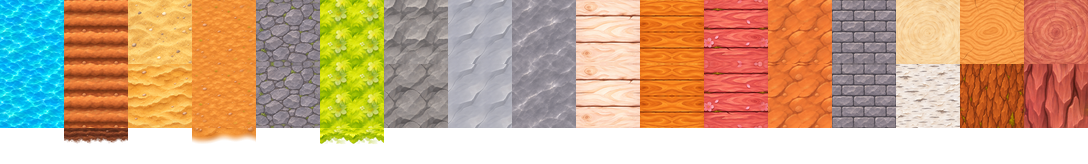
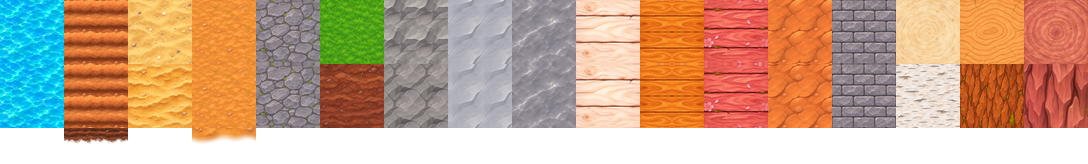
v0.93.79: Grama com topo e face enviados pelo dono do produto
Substitui a grama da v0.93.77 pelo topo e pela face enviados, sem franja; ícone refeito e teste ajustado.

Claude-Session: https://claude.ai/code/session_01KGdgomm438trDHTLPLqJmv

Changed region(s): [[0.2812, 0.0, 0.375, 0.8841]]

diff --git a/src/render/materialsV2.test.ts b/src/render/materialsV2.test.ts
@@ -24,12 +24,13 @@ describe('Padrão de Materiais V2 (ADR 0023)', () => {
     }
   });
 
-  it('Terra Arada, Caminho de Terra e Grama têm frente de terra e a franja do próprio topo', () => {
-    for (const id of [Block.TILLED, Block.PATH, Block.GRASS]) {
+  it('Terra Arada e Caminho de Terra têm frente de terra e a franja do próprio topo; a Grama tem topo e face próprios, sem franja', () => {
+    for (const id of [Block.TILLED, Block.PATH]) {
       const b = V2_BLOCKS[id]!;
       expect(b.front).toBe('terra');
       expect(b.overlay).toBe(b.top);
     }
+    expect(V2_BLOCKS[Block.GRASS]).toEqual({ top: 'grama', front: 'grama' });
   });
 
   it('o V2 é o padrão; só ?blocos=legado volta ao atlas antigo', () => {

diff --git a/src/render/materialsV2.ts b/src/render/materialsV2.ts
@@ -30,7 +30,7 @@ interface V2Block { top: string; front: string; overlay?: string }
 export const V2_BLOCKS: Partial<Record<BlockId, V2Block>> = {
   [Block.SAND]: { top: 'areia', front: 'areia' },
   [Block.DIRT]: { top: 'terra', front: 'terra' },
-  [Block.GRASS]: { top: 'grama', front: 'terra', overlay: 'grama' },
+  [Block.GRASS]: { top: 'grama', front: 'grama' }, // topo e face próprios (v0.93.79), sem franja
   // As cinco pedras do jogo (as outras três foram aposentadas, `RETIRED_STONES`); sem frente própria, a frente é o topo.
   [Block.STONE]: { top: 'pedra', front: 'pedra' },
   [Block.STONE_BRICK]: { top: 'tijolo-de-pedra', front: 'tijolo-de-pedra' },

diff --git a/docs/NEXT_STEPS.md b/docs/NEXT_STEPS.md
@@ -22,7 +22,7 @@ Fases 1 (desbloqueio) e 2 (hotbar em linhas, controles por `--hotbar-h`, convers
 - **F6 feita (v0.93.58):** salvamento v16 (`sub`), protocolo 21, `RoomSnapshot` v5 e servidor sincronizado; migração em `world/subdiv.ts`. **F7 feita no jogo (v0.93.59): `DEFAULT_SUBDIV = 2`; paredes/porta empilhadas na grade fina.** **Falta para ir ao ar:** PR do servidor (`build:net` + `sync-net`) e implantação conjunta jogo+servidor **só com aval do dono do produto**; conferir o peso do arquivo salvo (~4×), a margem de chunks dos prédios grandes (castelo), save/online reais na grade 2, o 2D de reserva (M7), porta de parede animada e casas/cidade com paredes.
 - **Capivara e lobos (v0.93.61):** dar à capivara um alimento e a arte de filhote (reprodução como vaca/galinha) e usar as folhas de comer/dormir; lobos sem pose de morte própria no espelho da sala (usam a folha de morte de `monsterDeaths`).
 - **Bandos (v0.93.60):** conferir o ritmo do jogo com ~340 acampamentos e ~130 bandos de lagarto (ajustar `PACK_REGION`/`PACK_SPAWN_RADIUS` em `world/goblins.ts`/`game/entities.ts`); nome/diálogo e espólio extra do lagarto (hoje só 2 moedas); bando de lagarto que a sala simula não persiste (volta completo ao reaproximar-se); homem-lagarto só no Mundo principal.
-- **Franja da Grama em pilhas parciais (v0.93.78):** o topo de uma pilha de 1–3 blocos devia mostrar a franja (hoje só o 4º nível mostra); fatiar a frente a partir do topo da coluna, não do nível absoluto.
+- **Grama (v0.93.79):** sem franja entre o topo verde e a face de terra; se quiser a franja de volta, pedir uma faixa de relva com alfa (≤ 32 px) e, nas pilhas parciais, fatiar a frente a partir do topo da coluna (hoje só o 4º nível mostraria a franja).
 - **Arte dos blocos (v0.93.77):** pedir ao artista versões repetíveis (sem emenda) das 5 planificações e uma franja própria da Terra Arada; refazer ícones de Tijolo, Chão e Pedra Polida no mesmo estilo; conferir o 3D da Grama (a franja ocupa ~44% da frente esticada).
 - **Blocos de 1/4 (ADR 0033, v0.93.76):** arte própria da face de 4 px por material, borda/sombra entre blocos parciais, 2D de reserva fiel (pilhas parciais) ou aposentar o 2D, balanceamento (4 golpes por célula, muralha/montanhas de 1 célula, monstros não sobem a pilha de 4), usar `cubeLevels` em novas constantes de altura. **Servidor:** implantar com o jogo (`PROTOCOL_VERSION` 24, snapshot v6; a sala converte o arquivo antigo ao abrir).
 - **Atores no chão (v0.93.70):** confirmar no celular se a sola encosta na sombra em todos os bichos; a folga é por linha de direção (a menor entre os quadros): se algum quadro de caminhada ainda flutuar, medir por quadro; considerar regenerar as folhas com a base alinhada (`process-sprite.py`) para não depender da tabela; decidir se o sombreado por pixel (relevo/sol) fica ou sai, e a posição/tamanho da caixa de colisão (ver discussão de 14/11).

diff --git a/docs/CHANGELOG.md b/docs/CHANGELOG.md
@@ -1,5 +1,9 @@
 # Changelog
 
+## Orvalis v0.93.79 — Grama com topo e face enviados (14/11/2026)
+- **Pedido do dono do produto:** a grama da v0.93.77 saiu ("não gostei dessa grama"); voltam o **topo** (relva verde repetível) e a **face** (terra avermelhada em estratos, com raízes) enviados. Originais em `assets-src/blocos-net/grama-topo.png` e `grama-face.png`.
+- **Materiais V2:** `grama` ganha `top.png` e `front.png` próprios (emendas 0,89 e 0,70: a arte já era repetível, sem mistura); `V2_BLOCKS[GRASS] = { top: 'grama', front: 'grama' }` — **sem franja** (a arte não traz). O chão de grama e as transições usam o novo topo. Ícone `icon-block-grass` refeito. Terra, Terra Arada, Pedra Bruta e Pedra Lisa ficam como na v0.93.77.
+- Só arte e uma linha de composição; testes e `tsc` verdes; conferido no navegador (3D).
 ## Orvalis v0.93.78 — o Mundo 3D mostra a frente própria dos materiais (14/11/2026)
 - **Defeito:** o 3D oblíquo usava o topo também nas laterais (`BlockMaterials`: `view === 'oblique' ? top : front`), e `worldBlockFaces` só usava a frente V2 quando o nome do material da frente diferia do topo (Pedra Bruta, Pedra Lisa e as toras têm `front.png` próprio, mas o mesmo nome). Resultado: topo e face iguais.
 - **Correção:** a lateral usa `faces.front` e todo bloco V2 monta a frente a partir do material (sem `front.png`, é o próprio topo). Grama mostra terra com franja, Terra Arada e Terra mostram a terra lateral, pedras e toras mostram a face própria. Testes e `tsc` verdes; conferido no navegador.

diff --git a/docs/CURRENT_STATE.md b/docs/CURRENT_STATE.md
@@ -1,6 +1,6 @@
 # Estado atual
 
-_Atualizado em 2026-11-14 — v0.93.78 · jogo: **Orvalis** (`orvalis.pensamentos.online`)_
+_Atualizado em 2026-11-14 — v0.93.79 · jogo: **Orvalis** (`orvalis.pensamentos.online`)_
 
 Este documento descreve **só o que existe hoje**. O histórico por entrega está no [`CHANGELOG`](CHANGELOG.md); o diário
 técnico antigo (até a v0.80.0, com nomes de funções e versões de protocolo/salvamento) está em
@@ -10,7 +10,7 @@ uma seção por versão) e registre a mudança no `CHANGELOG`.
 ## Versões e números de referência
 | Item | Valor | Fonte |
 |---|---|---|
-| Versão do jogo | 0.93.78 | `package.json` |
+| Versão do jogo | 0.93.79 | `package.json` |
 | `PROTOCOL_VERSION` (multiplayer) | 23 | `src/net/protocol.ts` |
 | `SAVE_VERSION` (salvamento local) | 15 | `src/game/save.ts` |
 | Testes | Vitest e verificação automática no GitHub Actions | `npm test` |
